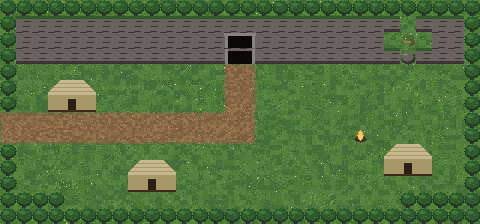
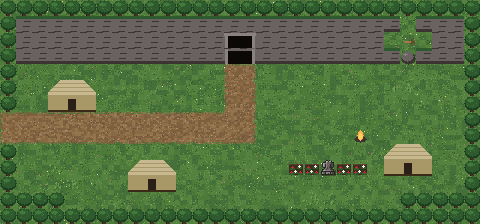
Old Morrow's garden at the deserters' camp: the Mad King's statue, his roses, and a tale told once
Also keeps Baron Plush's after-lines, so the Sleeping Keep fight still knows him by name.

Claude-Session: https://claude.ai/code/session_017d5NFjoa5VJBDaNBSv5B9F

Changed region(s): [[0.5938, 0.7188, 0.7812, 0.7812]]

diff --git a/src/app/(tabs)/world.tsx b/src/app/(tabs)/world.tsx
@@ -1944,6 +1944,8 @@ function useAct(
         .getState()
         .hear({ id: talkedId(thing.name), speaker: thing.name, ask: TALKED, answer: thing.lines, at: Date.now() });
       const after = thing.after && useWorldStore.getState().flags.includes(thing.after.flag);
+      // some things are only said once: from now on it's their `after` lines
+      if (thing.sets) useWorldStore.getState().setFlag(thing.sets);
       // The Keeper can also be asked how you're doing and who to bring (keeper-advice.ts).
       const keeper =
         thing.id === 'keeper' ? selectKeeperFacts(pickData(useGameStore.getState()), toDateKey(new Date())) : null;

diff --git a/src/world/maps.ts b/src/world/maps.ts
@@ -98,6 +98,8 @@ export type NpcObject = {
   character?: CharacterId;
   /** What they say instead once a story flag is set. */
   after?: { flag: string; lines: string[] };
+  /** A story flag set the first time you talk to them: with `after` on it, they only tell you once (Old Morrow). */
+  sets?: string;
   /** A job only one Path can do by talking to them. */
   job?: NpcJob;
   /** Gone from the map once this story flag is set. */

diff --git a/src/world/walkers.ts b/src/world/walkers.ts
@@ -100,7 +100,8 @@ export const WALKER_ROWS = {
   gary: 89,
   brannocasleep: 90,
   garyasleep: 91,
-  silasseen: 92,
+  morrow: 92,
+  silasseen: 93,
 } as const;
 
 export type WalkerId = keyof typeof WALKER_ROWS;
